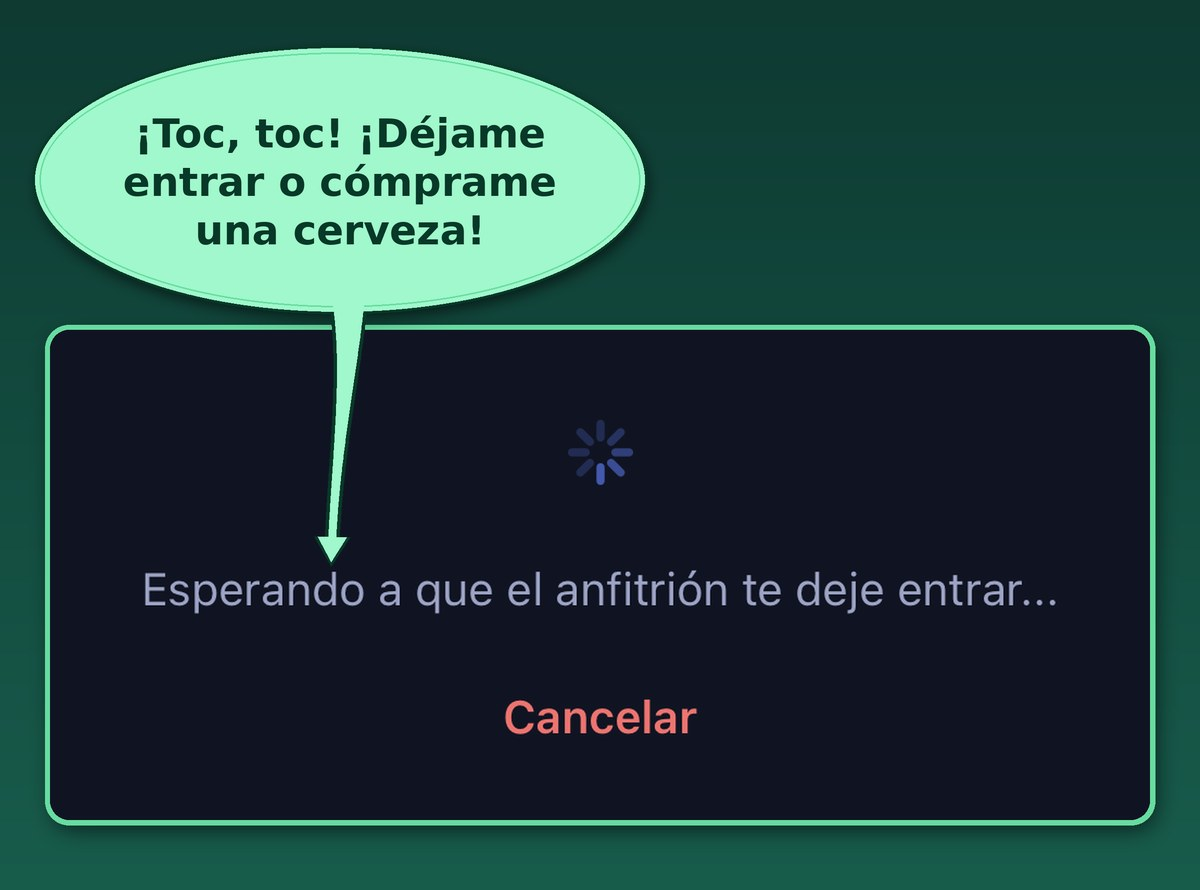
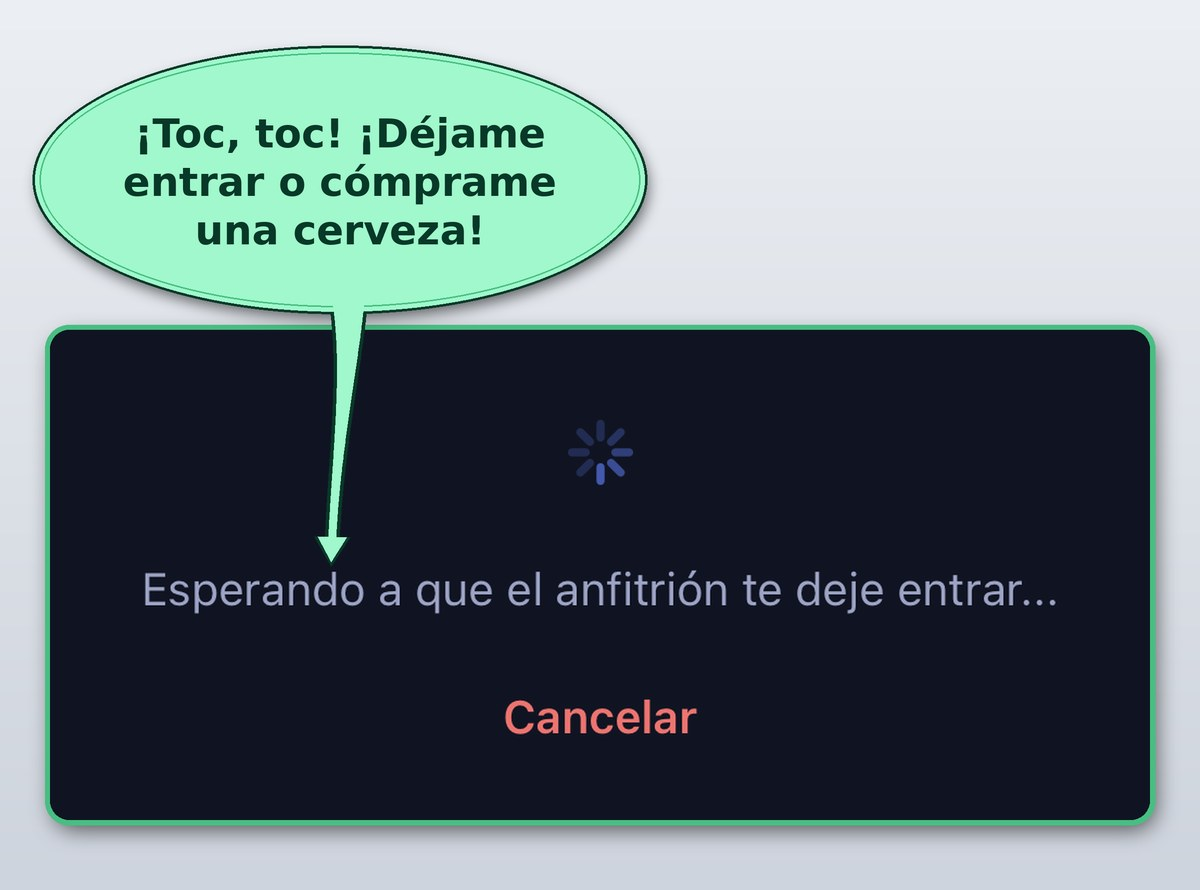
Add files via upload

diff --git a/guide.html b/guide.html
@@ -8,11 +8,11 @@
 <style>
 /* Layout: one centered phone-width column; big images stacked, short title above each. */
 :root{
-  --bg:#0e3a32; --bg2:#185c4c; --ink:#eafff4; --mute:#a9d9c3;
-  --mint:#a0f8cc; --mint2:#68dca0; --deep:#083828;
+  --bg:#eceff3; --bg2:#ced4dd; --ink:#17302a; --mute:#4f5f5a;
+  --mint:#0d6b49; --mint2:#48be82; --deep:#083828; --chip:#a0f8cc;
   --font-display:'Fredoka','Trebuchet MS',system-ui,sans-serif;
   --font-body:'Nunito',system-ui,-apple-system,'Segoe UI',sans-serif;
-  color-scheme:dark;
+  color-scheme:light;
 }
 body{background:var(--bg);background-image:linear-gradient(180deg,var(--bg) 0,var(--bg2) 100%);background-attachment:fixed;color:var(--ink);font-family:var(--font-body);font-size:17px;line-height:1.55;
   padding-left:max(16px,env(safe-area-inset-left,0px));padding-right:max(16px,env(safe-area-inset-right,0px));padding-block:20px 48px}
@@ -23,13 +23,13 @@ h1{font-family:var(--font-display);font-weight:600;font-size:clamp(1.9rem,6vw,2.
 .lede{margin:0;color:var(--mute);max-width:52ch}
 .toggle{display:inline-flex;border:2px solid var(--mint2);border-radius:999px;padding:3px;gap:2px}
 .toggle button{font:700 15px var(--font-body);color:var(--mint);background:transparent;border:0;border-radius:999px;padding:7px 18px;cursor:pointer}
-.toggle button[aria-pressed="true"]{background:var(--mint);color:var(--deep)}
-.toggle button:focus-visible,a:focus-visible{outline:3px solid #fff;outline-offset:2px}
+.toggle button[aria-pressed="true"]{background:var(--chip);color:var(--deep)}
+.toggle button:focus-visible,a:focus-visible{outline:3px solid var(--deep);outline-offset:2px}
 main{display:flex;flex-direction:column;gap:34px}
 figure{margin:0;display:flex;flex-direction:column;gap:10px;min-width:0}
 figcaption{font-family:var(--font-display);font-weight:500;font-size:1.25rem;color:var(--mint)}
-figure img{display:block;width:100%;height:auto;border-radius:20px;box-shadow:0 10px 30px rgba(0,0,0,.35)}
-.more{display:flex;flex-direction:column;gap:12px;padding:18px 20px;border-radius:20px;background:rgba(160,248,204,.12);border:2px solid var(--mint2)}
+figure img{display:block;width:100%;height:auto;border-radius:20px;box-shadow:0 8px 24px rgba(20,30,50,.22)}
+.more{display:flex;flex-direction:column;gap:12px;padding:18px 20px;border-radius:20px;background:rgba(72,190,130,.14);border:2px solid var(--mint2)}
 .more p{margin:0}
 .more a{color:var(--mint);font-weight:700}
 footer{color:var(--mute);font-size:15px;display:flex;flex-wrap:wrap;gap:6px 18px}
